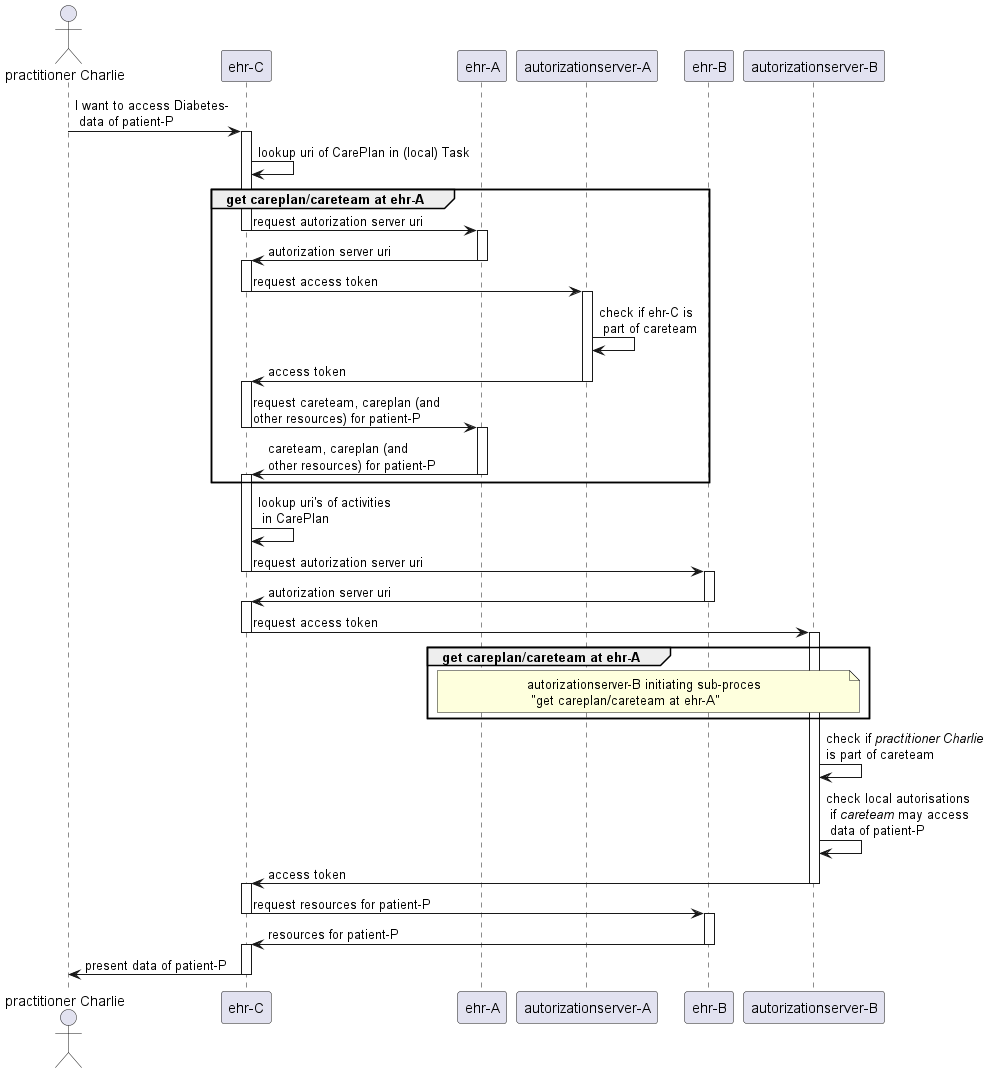
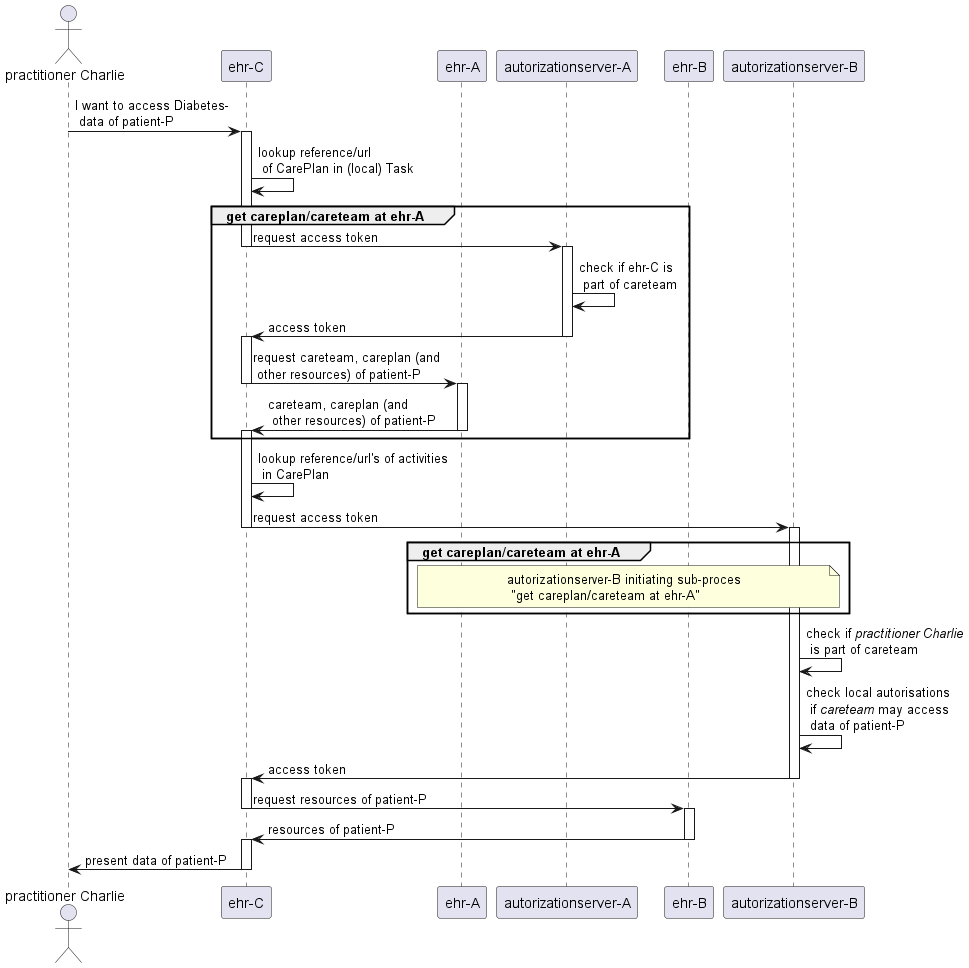
simplify sequence

diff --git a/input/pagecontent/introduction.md b/input/pagecontent/introduction.md
@@ -67,7 +67,7 @@ De revalidatie start en de rol van het chirurgisch-team is inmiddels afgerond. D
 
 ### Zorginzage
 
-Als iemand binnen thuis-organisatie C de data wil inzien van ziekenhuis B, zullen de systemen van organisatie C, organisatie B en de Care Plan/Team Service (organisatie A) moeten interacteren met elkaar. Dit wordt in het volgende sequence beschreven. Doel hiervan is om de individuele transacties per systeem en de lokalisatie van data inzichtelijk te maken. Enkele stappen als user-authenticatie of access-token validatie zijn weggelaten om het schema overzichtelijk te houden. 
+Als iemand binnen thuis-organisatie C de data wil inzien van ziekenhuis B, zullen de systemen van organisatie C, organisatie B en de Care Plan/Team Service (organisatie A) moeten interacteren met elkaar. Dit wordt in het volgende sequence beschreven. Doel hiervan is om de individuele transacties per systeem en de lokalisatie van data inzichtelijk te maken. Enkele stappen als de user-authenticatie, ophalen van de autorisatieserver-url of de access-token validatie zijn weggelaten om het schema overzichtelijk te houden. 
 
 ![](/input/images/example1-retrievingdata.png)
 
